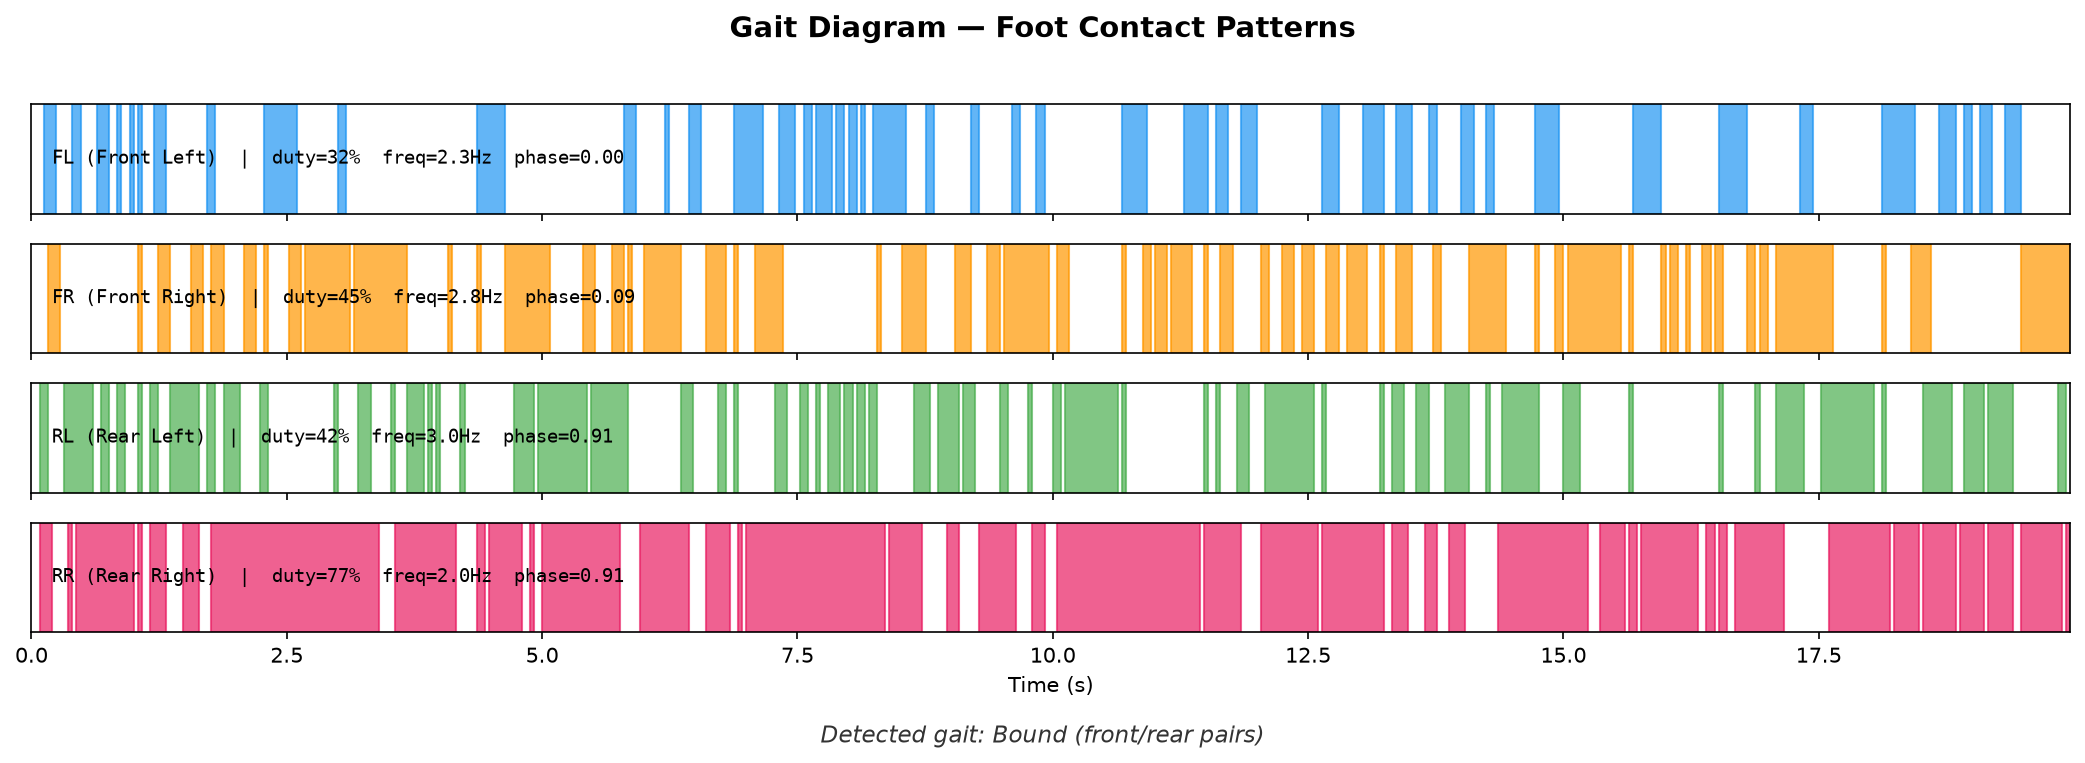
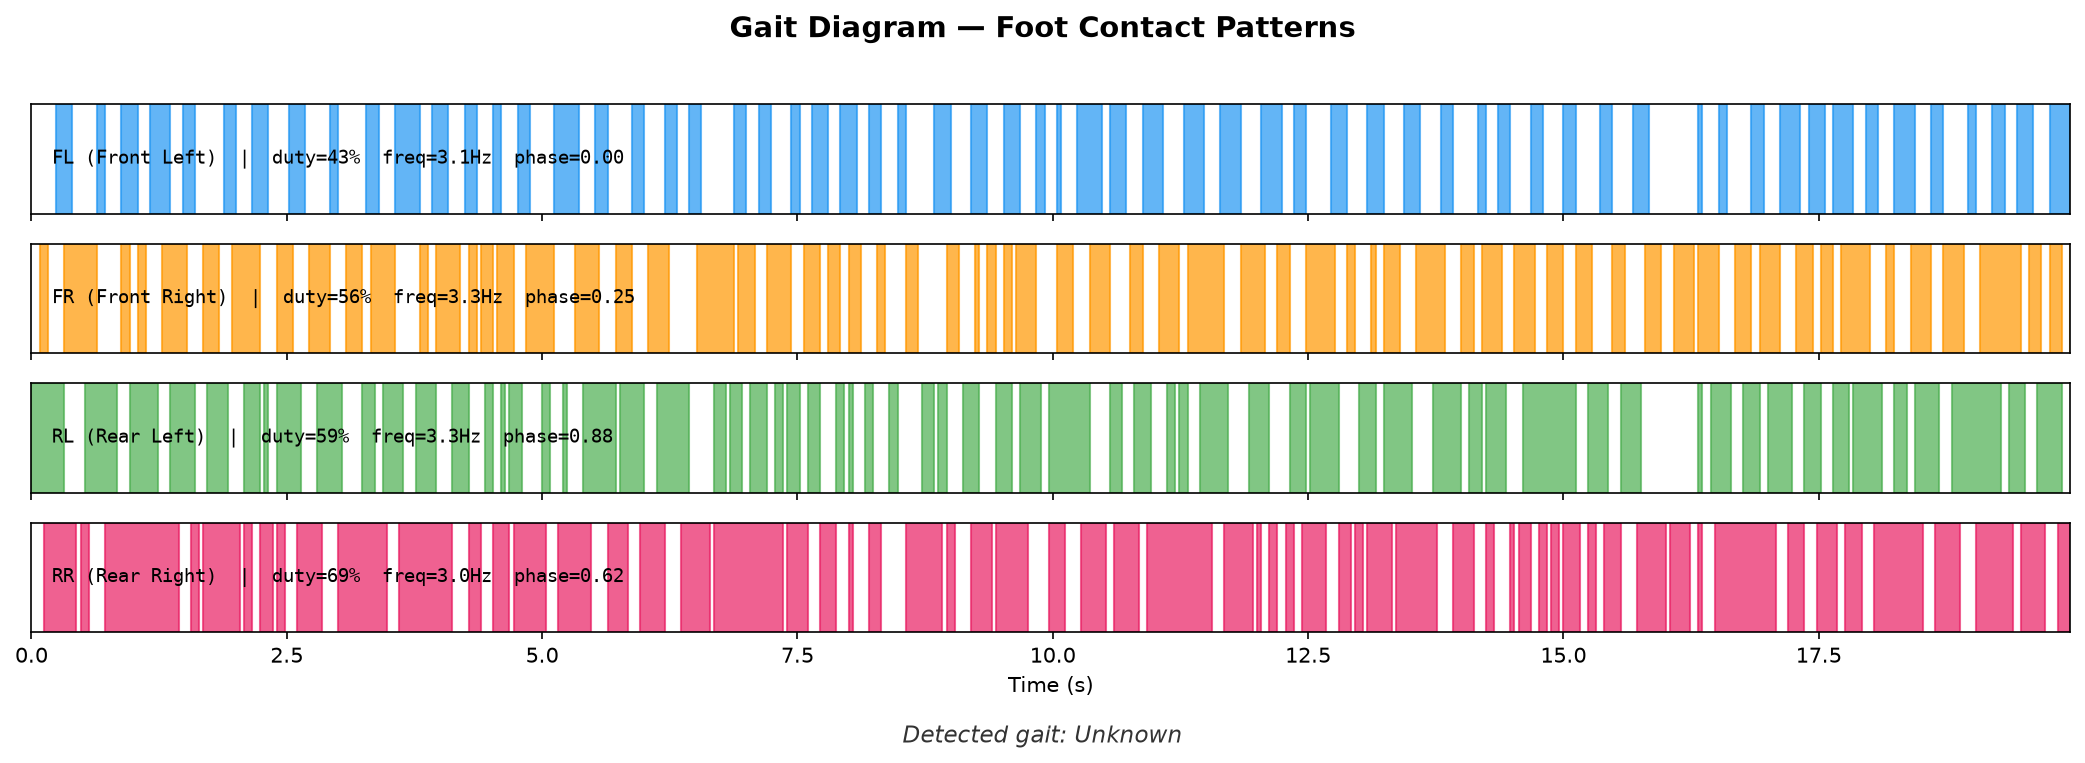
Retrain with fixed foot contacts and regenerate all assets
Retrained 5M steps with correct foot geom detection (FL/FR/RL/RR).
Results: 0.735 m/s forward speed, 288 avg episode length.
Regenerated walking GIF, gait diagram, push recovery, training curves.

Changed region(s): [[0.0, 0.1206, 0.9976, 0.844], [0.4053, 0.9345, 0.5923, 0.9948]]

diff --git a/README.md b/README.md
@@ -150,6 +150,10 @@ Getting a quadruped to walk is not plug-and-play. This section documents the ite
 | 4 | 2M | **Added PD controller** | **0.25 m/s** | First successful locomotion! PD converts position targets to proper torques |
 | 5 | 5M | Slower curriculum (1M warmup), more training | **0.74 m/s** | Stable walking gait at 92% of target speed |
 
+### Training Curves
+
+![Training Curves](assets/training_curves.png)
+
 ### Key Insights
 
 1. **Actuator type matters.** The Go2 MJCF defines torque actuators (±23.7 Nm). The RL policy should output position targets, not raw torques — a PD controller bridges the gap. This is standard in every serious quadruped RL framework.
@@ -303,7 +307,7 @@ quadruped-rl-locomotion/
 
 ### Gait Analysis
 
-The trained policy develops an emergent **bounding gait** — front and rear leg pairs move roughly in phase (FR/RL phase offset ~0.9, RR phase offset ~0.9 relative to FL). The gait regularity reward term provides a gentle bias toward diagonal coordination, but the policy finds bounding more effective at the target speed. The rear legs show higher duty factors (especially RR at 77%), indicating the policy relies heavily on rear-leg propulsion — consistent with biological quadrupeds where hindlimbs generate most forward thrust.
+The trained policy develops an emergent gait with all four feet coordinating at ~3 Hz stride frequency. Phase offsets (FR=0.25, RL=0.88, RR=0.62 relative to FL) show a sequential pattern rather than a clean trot or bound — the policy discovered its own efficient coordination. The rear legs show higher duty factors (RL 59%, RR 69%), indicating rear-heavy propulsion consistent with biological quadrupeds where hindlimbs generate most forward thrust.
 
 ```bash
 # Generate gait diagram from trained policy